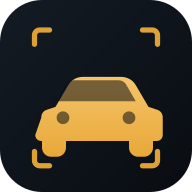
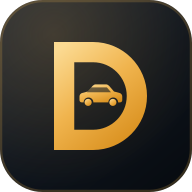
چاکسازی مۆبایل: Dynamic Island، ڕووپۆشەکان، و ئایکۆنی نوێ
- سەردێڕی لاپەڕەکان چیتر ناچنە ژێر Dynamic Island / notch
  (safe-area-inset لە سەردێڕ، لاپەڕەی لۆگین، گەلەری و بینەری وێنە)
- هەموو ڕووپۆشەکان (سکانەری کامێرا، شیتی هەڵبژاردن، پەنجەرەکان،
  مێنیوی «زیاتر») ڕاستەوخۆ لەسەر body دەکرێنەوە بە Portal —
  پێشتر لەسەر iOS دەکەوتنە ژێر ناڤیگەیشنی خوارەوە
- ئایکۆنی نوێ: مۆنۆگرامی D ی DLO لەگەڵ ئۆتۆمبێل لەناویدا،
  زێڕین لەسەر تاریک. هەمان دیزاین لە ناو ئەپەکەشدا

Claude-Session: https://claude.ai/code/session_011vLSbeJN4H319Sh3dGHPss

diff --git a/src/components/Brand.tsx b/src/components/Brand.tsx
@@ -5,25 +5,38 @@
 
 export function BrandMark({ size = 56, className = '' }: { size?: number; className?: string }) {
   return (
-    <svg width={size} height={size} viewBox="0 0 64 64" className={className} aria-label="DLO IT">
+    <svg width={size} height={size} viewBox="0 0 512 512" className={className} aria-label="DLO IT">
       <defs>
-        <linearGradient id="bmg" x1="0" y1="0" x2="1" y2="1">
-          <stop offset="0" stopColor="#F5C86E" />
-          <stop offset="1" stopColor="#E09A22" />
+        <linearGradient id="bmBg" x1="0.1" y1="0" x2="0.9" y2="1">
+          <stop offset="0" stopColor="#1B2432" />
+          <stop offset="0.55" stopColor="#0E141C" />
+          <stop offset="1" stopColor="#070B10" />
         </linearGradient>
+        <linearGradient id="bmGold" x1="0.15" y1="0" x2="0.85" y2="1">
+          <stop offset="0" stopColor="#FBDA92" />
+          <stop offset="0.45" stopColor="#F0B44E" />
+          <stop offset="1" stopColor="#D68B18" />
+        </linearGradient>
+        <radialGradient id="bmGlow" cx="0.28" cy="0.18" r="0.8">
+          <stop offset="0" stopColor="#F0B44E" stopOpacity="0.2" />
+          <stop offset="1" stopColor="#F0B44E" stopOpacity="0" />
+        </radialGradient>
       </defs>
-      <rect x="1.5" y="1.5" width="61" height="61" rx="17" fill="rgb(var(--c-surface2))" stroke="url(#bmg)" strokeWidth="3" />
-      {/* D */}
+      <rect width="512" height="512" rx="114" fill="url(#bmBg)" />
+      <rect width="512" height="512" rx="114" fill="url(#bmGlow)" />
+      <rect x="3" y="3" width="506" height="506" rx="112" fill="none" stroke="#F0B44E" strokeOpacity="0.2" strokeWidth="6" />
       <path
-        d="M20 18 v28 h8 a14 14 0 0 0 0 -28 z"
-        fill="none"
-        stroke="url(#bmg)"
-        strokeWidth="6.5"
-        strokeLinejoin="round"
-        strokeLinecap="round"
+        d="M144 112 h104 a144 144 0 0 1 0 288 h-104 z
+           M198 166 h50 a90 90 0 0 1 0 180 h-50 z"
+        fill="url(#bmGold)"
+        fillRule="evenodd"
       />
-      {/* خاڵی IT */}
-      <circle cx="44" cy="44" r="4" fill="url(#bmg)" />
+      <g transform="translate(208 227)" fill="url(#bmGold)">
+        <path d="M4 40 v-10 c0-4 3-8 7-9 l15-4 13-15 c2-2 5-4 8-4 h28 c3 0 6 2 8 4 l13 15 15 4 c4 1 7 5 7 9 v10 c0 3-2 6-6 6 h-5 a13 13 0 0 0-26 0 h-40 a13 13 0 0 0-26 0 h-5 c-4 0-6-3-6-6 z" />
+        <path d="M35 6 h42 l11 13 h-64 z" fill="#0E141C" opacity="0.6" />
+        <circle cx="27" cy="46" r="9.5" />
+        <circle cx="93" cy="46" r="9.5" />
+      </g>
     </svg>
   )
 }

diff --git a/src/components/ui.tsx b/src/components/ui.tsx
@@ -1,5 +1,6 @@
 import React, { useEffect, useRef, useState } from 'react'
 import { X, Search, ChevronDown, Check, AlertTriangle } from 'lucide-react'
+import { Portal } from './Portal'
 
 /* ---------------- Sheet / Modal ---------------- */
 export function Sheet({
@@ -30,7 +31,8 @@ export function Sheet({
   }, [open, onClose])
   if (!open) return null
   return (
-    <div className="fixed inset-0 z-50 flex sm:items-center items-end justify-center no-print">
+    <Portal>
+    <div className="fixed inset-0 z-[90] flex sm:items-center items-end justify-center no-print">
       <div className="absolute inset-0 bg-black/60 backdrop-blur-[2px] animate-in" onClick={onClose} />
       <div
         className={`relative w-full ${wide ? 'sm:max-w-4xl' : 'sm:max-w-lg'} max-h-[92vh] flex flex-col
@@ -46,6 +48,7 @@ export function Sheet({
         {footer && <div className="px-5 py-3.5 border-t border-line shrink-0 flex gap-2 justify-end safe-b">{footer}</div>}
       </div>
     </div>
+    </Portal>
   )
 }
 
@@ -236,7 +239,8 @@ export function Picker({
 
       {/* ---- مۆبایل: شیتی خوارەوە ---- */}
       {open && !desktop && (
-        <div className="fixed inset-0 z-[70] flex items-end no-print">
+        <Portal>
+        <div className="fixed inset-0 z-[95] flex items-end no-print">
           <div className="absolute inset-0 bg-black/60 backdrop-blur-[2px] animate-in" onClick={() => setOpen(false)} />
           <div className="relative w-full bg-surface border-t border-line rounded-t-3xl shadow-pop animate-sheet flex flex-col max-h-[80dvh]">
             <div className="shrink-0 px-4 pt-3 pb-3 border-b border-line">
@@ -252,6 +256,7 @@ export function Picker({
             <div className="app-scroll grow divide-y divide-line/60 safe-b">{list}</div>
           </div>
         </div>
+        </Portal>
       )}
     </div>
   )

diff --git a/src/components/PhotoUploader.tsx b/src/components/PhotoUploader.tsx
@@ -4,6 +4,7 @@ import type { Photo } from '../lib/types'
 import { getRepo } from '../lib/repo'
 import { uid } from '../lib/format'
 import { Img, resolvePhoto, thumbOf } from './Img'
+import { Portal } from './Portal'
 
 async function draw(bmp: ImageBitmap, max: number, quality: number, type = 'image/jpeg'): Promise<Blob> {
   const scale = Math.min(1, max / Math.max(bmp.width, bmp.height))
@@ -150,18 +151,20 @@ export function PhotoUploader({ photos, onChange }: { photos: Photo[]; onChange:
       {err ? <p className="text-xs text-bad mt-2">{err}</p> : <p className="text-xs text-muted mt-2">وێنەکان خۆکارانە بچووک دەکرێنەوە بۆ خێرایی زیاتر.</p>}
 
       {view && (
+        <Portal>
         <div
-          className="fixed inset-0 z-[80] bg-black/92 grid place-items-center p-4 no-print"
+          className="fixed inset-0 z-[95] bg-black/92 grid place-items-center p-4 no-print safe-t safe-b"
           onClick={() => {
             setView(null)
             setViewSrc('')
           }}
         >
-          <button className="absolute top-4 end-4 w-11 h-11 rounded-full bg-white/12 text-white grid place-items-center">
+          <button className="absolute top-[max(1rem,env(safe-area-inset-top))] end-4 w-11 h-11 rounded-full bg-white/12 text-white grid place-items-center">
             <X size={22} />
           </button>
           {viewSrc ? <img src={viewSrc} alt="" className="max-h-full max-w-full object-contain rounded-xl" /> : <Loader2 className="animate-spin text-white" />}
         </div>
+        </Portal>
       )}
     </div>
   )

diff --git a/src/components/Layout.tsx b/src/components/Layout.tsx
@@ -7,6 +7,7 @@ import {
 import { useApp } from '../store/app'
 import { Toasts } from './ui'
 import { ShowroomMark } from './Brand'
+import { Portal } from './Portal'
 
 const NAV = [
   { to: '/', icon: LayoutDashboard, label: 'داشبۆرد', end: true },
@@ -129,7 +130,8 @@ export function Layout() {
 
       {/* ============ زیاتر ============ */}
       {more && (
-        <div className="lg:hidden fixed inset-0 z-50 no-print" onClick={() => setMore(false)}>
+        <Portal>
+        <div className="lg:hidden fixed inset-0 z-[90] no-print" onClick={() => setMore(false)}>
           <div className="absolute inset-0 bg-black/60 backdrop-blur-[2px]" />
           <div className="absolute bottom-0 inset-x-0 bg-surface border-t border-line rounded-t-3xl p-4 pb-8 animate-sheet safe-b" onClick={(e) => e.stopPropagation()}>
             <div className="flex items-center justify-between mb-3">
@@ -161,6 +163,7 @@ export function Layout() {
             </div>
           </div>
         </div>
+        </Portal>
       )}
 
       <Toasts items={toast} onDrop={drop} />
@@ -184,7 +187,7 @@ export function PageHead({
   back?: () => void
 }) {
   return (
-    <div className="sticky top-0 z-30 bg-bg/85 backdrop-blur border-b border-line no-print">
+    <div className="sticky top-0 z-30 bg-bg/90 backdrop-blur-md border-b border-line no-print safe-t safe-x">
       <div className="px-4 sm:px-6 py-3.5 flex items-center gap-3">
         {back && (
           <button onClick={back} className="p-2 -ms-2 text-muted hover:text-ink rounded-lg shrink-0">

diff --git a/src/pages/CarDetail.tsx b/src/pages/CarDetail.tsx
@@ -9,6 +9,7 @@ import { PageHead } from '../components/Layout'
 import { Sheet, Field, MoneyInput, Segmented, useConfirm, Empty, Picker } from '../components/ui'
 import { DamageMap } from '../components/DamageMap'
 import { Img, thumbOf } from '../components/Img'
+import { Portal } from '../components/Portal'
 import { CAR_STATUS, COLORS, TX_CATEGORY_KU } from '../lib/catalog'
 import { fmtDate, maskVin, money, num, todayISO, uid } from '../lib/format'
 import { carMoney } from '../lib/finance'
@@ -283,8 +284,9 @@ ${settings.showroomName} ${settings.phone ? '— ' + settings.phone : ''}`
 
       {/* گەلەری فوول */}
       {gallery !== null && (
-        <div className="fixed inset-0 z-[80] bg-black/95 no-print flex flex-col">
-          <div className="flex justify-between items-center p-4 text-white">
+        <Portal>
+        <div className="fixed inset-0 z-[95] bg-black/95 no-print flex flex-col">
+          <div className="flex justify-between items-center p-4 text-white safe-t">
             <span className="num text-sm">
               {gallery + 1} / {photos.length}
             </span>
@@ -303,6 +305,7 @@ ${settings.showroomName} ${settings.phone ? '— ' + settings.phone : ''}`
             ))}
           </div>
         </div>
+        </Portal>
       )}
 
       {/* زیادکردنی تێچوو */}

diff --git a/src/components/VinScanner.tsx b/src/components/VinScanner.tsx
@@ -1,6 +1,7 @@
 import { useEffect, useRef, useState } from 'react'
 import { X, Zap, ZapOff, Keyboard, ScanLine, Camera, Loader2, RefreshCw } from 'lucide-react'
 import { cleanVin, VIN_RE } from '../lib/format'
+import { Portal } from './Portal'
 
 type Mode = 'barcode' | 'ocr'
 
@@ -215,7 +216,8 @@ export function VinScanner({ onResult, onClose }: { onResult: (vin: string) => v
   }
 
   return (
-    <div className="fixed inset-0 z-[70] bg-black no-print flex flex-col">
+    <Portal>
+    <div className="fixed inset-0 z-[100] bg-black no-print flex flex-col">
       <video ref={videoRef} playsInline muted autoPlay className="absolute inset-0 w-full h-full object-cover" />
       <div className="absolute inset-0 bg-black/35" />
 
@@ -292,5 +294,6 @@ export function VinScanner({ onResult, onClose }: { onResult: (vin: string) => v
         </button>
       </div>
     </div>
+    </Portal>
   )
 }

diff --git a/src/components/Portal.tsx b/src/components/Portal.tsx
@@ -1,0 +1,23 @@
+import { useEffect, useState } from 'react'
+import { createPortal } from 'react-dom'
+
+/**
+ * پەنجەرە و ڕووپۆشەکان ڕاستەوخۆ دەخاتە سەر <body>.
+ * بەبێ ئەمە، هەر شتێکی fixed کە لەناو ناوچەی سکرۆڵدا بێت دەکەوێتە
+ * ژێر ناڤیگەیشنی خوارەوە لەسەر iOS (بەهۆی ستاکینگ کۆنتێکستی سکرۆڵەکە).
+ */
+export function Portal({ children }: { children: React.ReactNode }) {
+  const [el] = useState(() => (typeof document === 'undefined' ? null : document.createElement('div')))
+
+  useEffect(() => {
+    if (!el) return
+    el.setAttribute('data-portal', '')
+    document.body.appendChild(el)
+    return () => {
+      if (el.parentNode) el.parentNode.removeChild(el)
+    }
+  }, [el])
+
+  if (!el) return null
+  return createPortal(children, el)
+}

diff --git a/src/pages/Login.tsx b/src/pages/Login.tsx
@@ -49,7 +49,7 @@ export function Login() {
   return (
     <div className="min-h-screen grid lg:grid-cols-2 bg-bg">
       {/* ---------- فۆرم ---------- */}
-      <div className="flex flex-col items-center justify-center p-6">
+      <div className="flex flex-col items-center justify-center p-6 safe-t safe-x">
         <form onSubmit={go} className="w-full max-w-sm space-y-5 animate-in">
           <div className="text-center mb-2">
             <button type="button" onClick={secret} className="mx-auto mb-5 block" aria-label="DLO IT">

diff --git a/src/index.css b/src/index.css
@@ -173,6 +173,13 @@
   .safe-b {
     padding-bottom: env(safe-area-inset-bottom);
   }
+  /* دووری لە Dynamic Island / notch — بۆ ئەپی جێگیر لەسەر مۆبایل */
+  .safe-t {
+    padding-top: env(safe-area-inset-top);
+  }
+  .safe-x {
+    padding-inline: env(safe-area-inset-left) env(safe-area-inset-right);
+  }
 }
 
 /* ================= چاپکردن — عەقد ================= */
